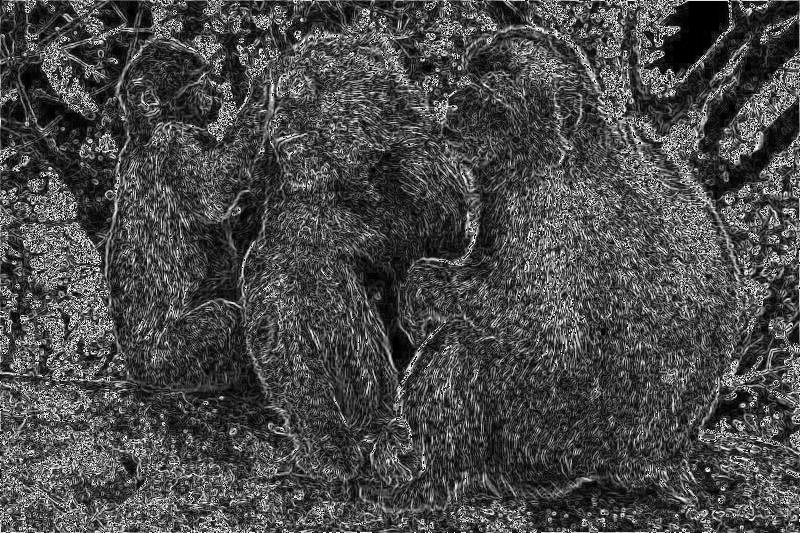
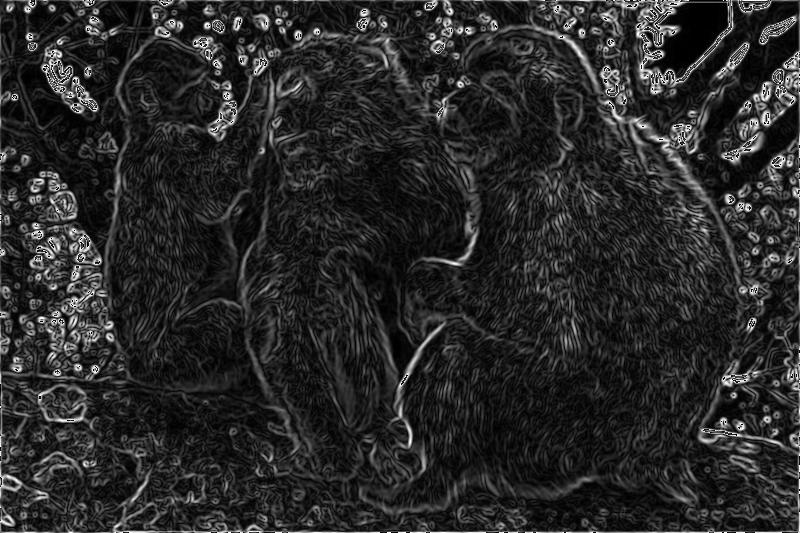
Added gausian blurring as the first step in edge_detection and removed some old pictures and comments

diff --git a/edge_detection.py b/edge_detection.py
@@ -1,6 +1,7 @@
 import numpy as np 
 from utils import convolve, get_image, save_image
 from grayscale import grayscale_mean
+from gausian_blur import gausian_blur
 
 def edge_detection(im):
 	'''
@@ -10,7 +11,9 @@ def edge_detection(im):
 	Args:
 		im: np.array of shape [H, W, 3]
 	'''
-	image = grayscale_mean(im)
+	image = gausian_blur(im, 5, 1.4)
+
+	image = grayscale_mean(image)
 
 	# Using vertical and horizontal Sobel kernels 
 	sobel_x = np.array([[-1, 0, 1], [-2, 0, 2], [-1, 0, 1]])
@@ -21,30 +24,6 @@ def edge_detection(im):
 	edge = np.round(np.sqrt(np.power(edge_x, 2) + np.power(edge_y, 2)))
 
 	return edge, edge_x, edge_y
-
-
-
-# Convert to grayscale
-# r, b, g = original_image[:,:,0], original_image[:,:,1], original_image[:,:,2]
-
-# the shape is being manipulated here...
-# image = np.round((r+b+g)*(1/3))
-
-# make the image to a grayscale
-# image = grayscale_mean(original_image)
-# image = np.zeros(original_image.shape)
-# for row, col in np.ndindex(original_image.shape[:-1]): # iterate over row and col, not color
-# 	mean_val = np.mean(original_image[row, col])
-# 	image[row, col, :] = np.full(original_image.shape[2], mean_val)
-
-# Using vertical and horizontal Sobel kernels 
-# sobel_x = np.array([[-1, 0, 1], [-2, 0, 2], [-1, 0, 1]])
-# sobel_y = np.array([[1, 2, 1], [0, 0, 0], [-1, -2, -1]])
-
-# edge_x = convolve(image, sobel_x)
-# edge_y = convolve(image, sobel_y)
-# edge = np.round(np.sqrt(np.power(edge_x, 2) + np.power(edge_y, 2)))
-
 
 
 if __name__ == "__main__":

diff --git a/gausian_blur.py b/gausian_blur.py
@@ -20,7 +20,7 @@ def gausian_kernel(size, sigma=1):
 	return np.exp(-((x**2 + y**2) / (2.0 * sigma**2))) * normal
 
 
-def gausian_blur(im, kernel=gausian_kernel(5)):
+def gausian_blur(im, kernel_size=5, kernel_sigma=1.0):
 	''' 
 	A function that convolves im with kernel.
 	
@@ -31,6 +31,7 @@ def gausian_blur(im, kernel=gausian_kernel(5)):
 	Returns:
 		np.array of shape [H, W, 3]
 	'''
+	kernel = gausian_kernel(kernel_size, kernel_sigma)
 	return convolve(im, kernel)
 
 
